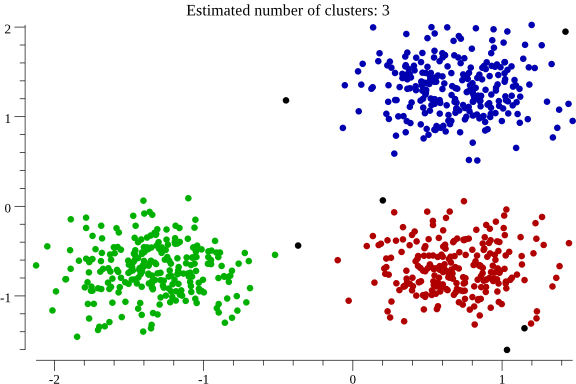
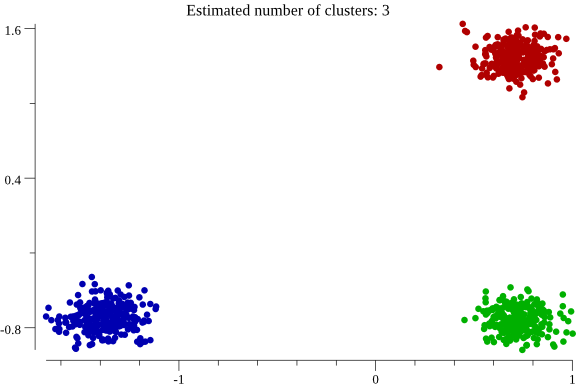
test

diff --git a/go_dbscan/go_dbscan.go b/go_dbscan/go_dbscan.go
@@ -39,7 +39,8 @@ func findClusterMembers(labels []int, X *mat.Dense) error {
 	for k := range labels {
 		for i := 0; i < columns; i++ {
 			zAt := X.At(k, i)
-			fmt.Println("zAt", zAt)
+			_ = zAt
+			// fmt.Println("zAt", zAt)
 		}
 
 	}
@@ -48,14 +49,13 @@ func findClusterMembers(labels []int, X *mat.Dense) error {
 
 func main() {
 	// adapted from http://scikit-learn.org/stable/_downloads/plot_dbscan.ipynb
-	// Generate sample data
-	centers := mat.NewDense(3, 2, []float64{1, 1, -1, -1, 1, -1})
+
 	NSamples := 750
-	X, _ := datasets.MakeBlobs(&datasets.MakeBlobsConfig{NSamples: NSamples, Centers: centers, ClusterStd: .3}) //RandomState: rand.New(rand.NewSource(0)),
+	Eps := 1.2 //3.0
+	MinSamples := 2.0
 
-	X, _ = preprocessing.NewStandardScaler().FitTransform(X, nil)
-
-	db := cluster.NewDBSCAN(&cluster.DBSCANConfig{Eps: .3, MinSamples: 10, Algorithm: "kd_tree"})
+	X := getX(NSamples)
+	db := cluster.NewDBSCAN(&cluster.DBSCANConfig{Eps: Eps, MinSamples: MinSamples, Algorithm: ""})
 	db.Fit(X, nil)
 	coreSampleMask := make([]bool, len(db.Labels))
 	for sample := range db.CoreSampleIndices {
@@ -83,6 +83,15 @@ func main() {
 
 	}
 
+}
+
+func getX(NSamples int) *mat.Dense {
+	// Generate sample data
+	centers := mat.NewDense(3, 2, []float64{1, 1, -1, -1, 1, -1})
+	X, _ := datasets.MakeBlobs(&datasets.MakeBlobsConfig{NSamples: NSamples, Centers: centers, ClusterStd: 0.1}) //RandomState: rand.New(rand.NewSource(0)),
+	X, _ = preprocessing.NewStandardScaler().FitTransform(X, nil)
+
+	return X
 }
 
 func plotResults(labelsmap map[int]int, NSamples int, labels []int, nclusters int, X *mat.Dense) error {
